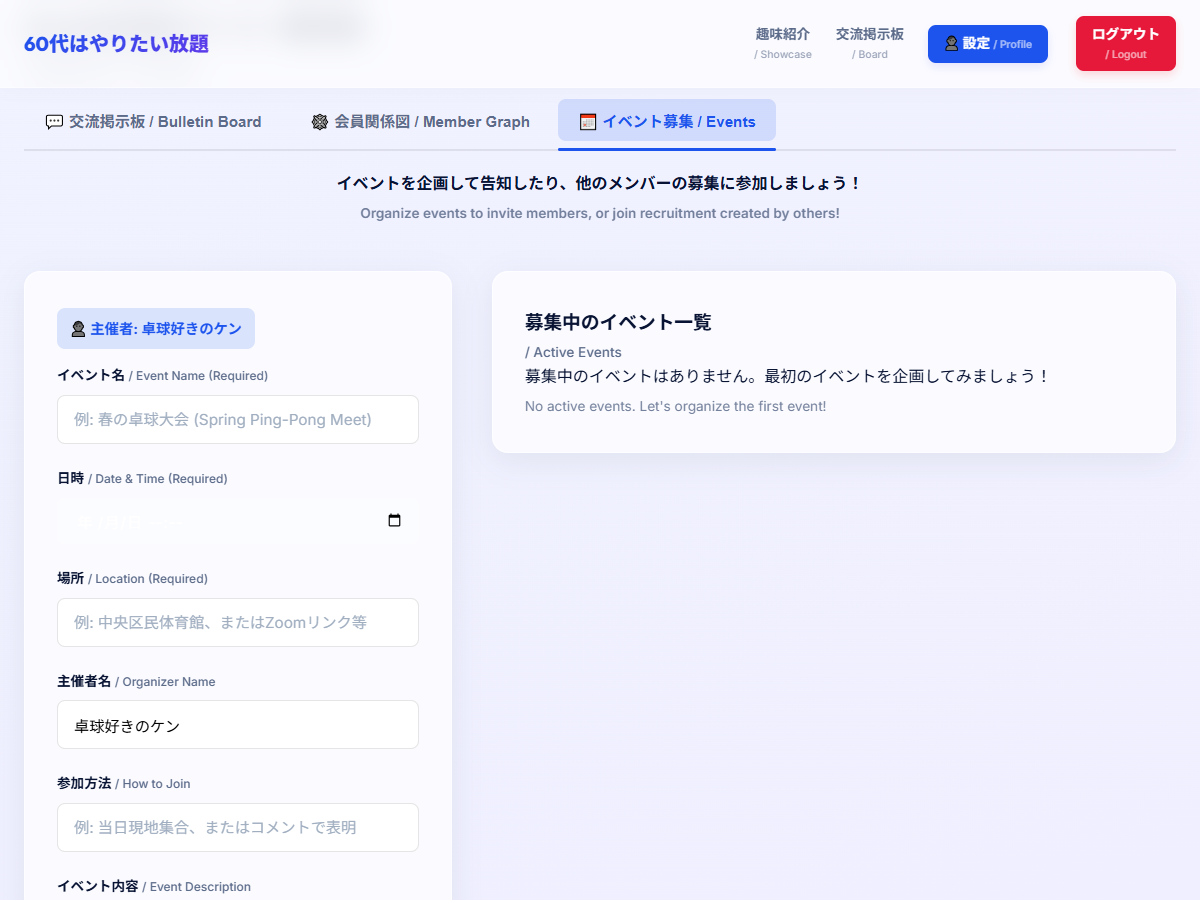
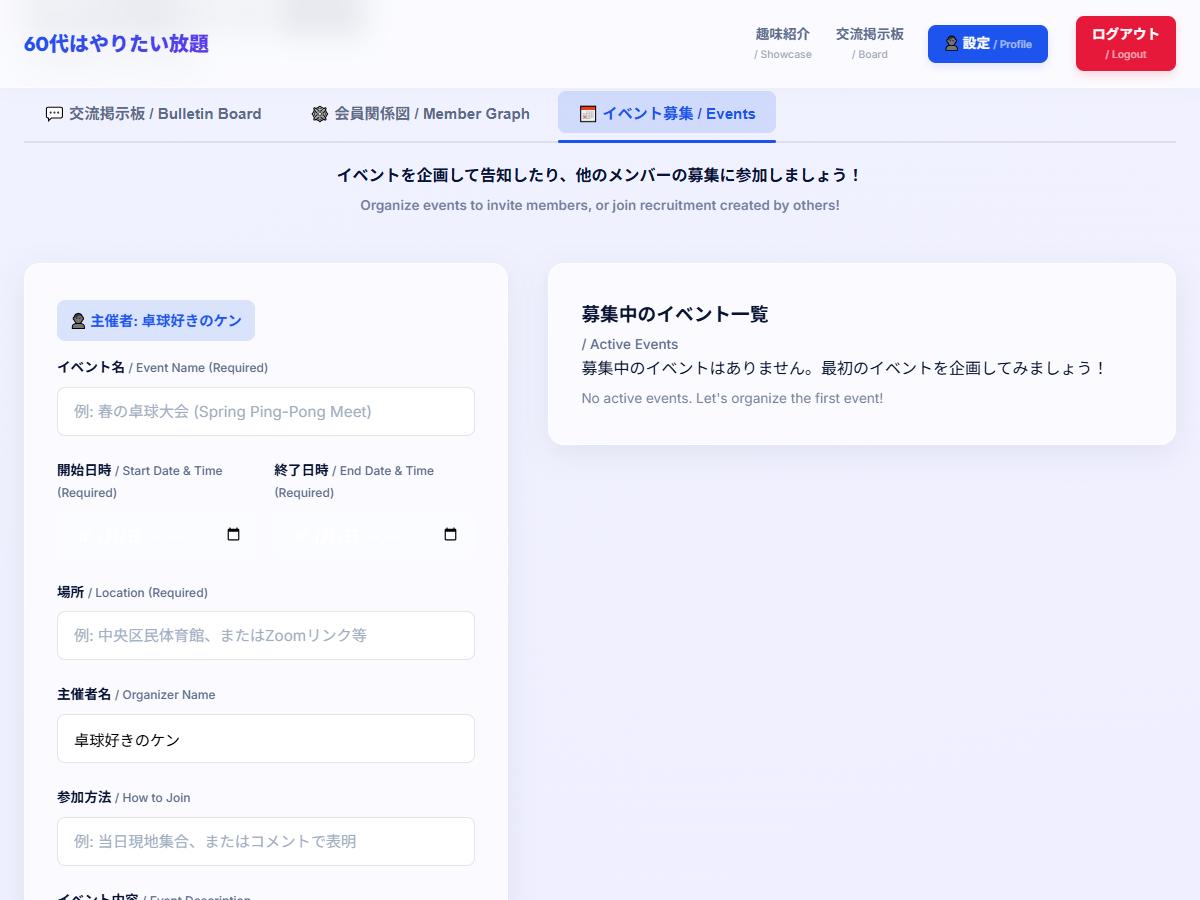
Split event start and end date/time fields, add UX linking and date validation, and update E2E tests

diff --git a/index.html b/index.html
@@ -317,9 +317,15 @@
                     <input type="text" id="eventName" required placeholder="例: 春の卓球大会 (Spring Ping-Pong Meet)">
                   </div>
                   
-                  <div class="form-group">
-                    <label for="eventDateTime">日時 <span class="en-label">/ Date & Time (Required)</span></label>
-                    <input type="datetime-local" id="eventDateTime" required style="background: var(--white); color: var(--text-dark); border: 1px solid var(--border); padding: 10px 14px; border-radius: var(--border-radius-sm); font-size: 0.95rem; width: 100%; box-sizing: border-box;">
+                  <div class="form-group event-datetime-group" style="display: flex; gap: 16px;">
+                    <div style="flex: 1;">
+                      <label for="eventStartDateTime">開始日時 <span class="en-label">/ Start Date & Time (Required)</span></label>
+                      <input type="datetime-local" id="eventStartDateTime" required style="background: var(--white); color: var(--text-dark); border: 1px solid var(--border); padding: 10px 14px; border-radius: var(--border-radius-sm); font-size: 0.95rem; width: 100%; box-sizing: border-box;">
+                    </div>
+                    <div style="flex: 1;">
+                      <label for="eventEndDateTime">終了日時 <span class="en-label">/ End Date & Time (Required)</span></label>
+                      <input type="datetime-local" id="eventEndDateTime" required style="background: var(--white); color: var(--text-dark); border: 1px solid var(--border); padding: 10px 14px; border-radius: var(--border-radius-sm); font-size: 0.95rem; width: 100%; box-sizing: border-box;">
+                    </div>
                   </div>
                   
                   <div class="form-group">
@@ -2376,6 +2382,33 @@
       }
     }
 
+    // 開始日時が変更された際に終了日時を自動設定（1時間後）し、min属性を設定する
+    const startInput = document.getElementById("eventStartDateTime");
+    const endInput = document.getElementById("eventEndDateTime");
+    if (startInput && endInput) {
+      startInput.addEventListener("change", function() {
+        const startVal = this.value;
+        if (startVal) {
+          endInput.min = startVal;
+          
+          // 終了日時が未入力、または開始日時より前の場合は、1時間後に設定
+          const startDate = new Date(startVal);
+          const endDate = new Date(startDate.getTime() + 60 * 60 * 1000);
+          
+          const year = endDate.getFullYear();
+          const month = String(endDate.getMonth() + 1).padStart(2, '0');
+          const day = String(endDate.getDate()).padStart(2, '0');
+          const hours = String(endDate.getHours()).padStart(2, '0');
+          const minutes = String(endDate.getMinutes()).padStart(2, '0');
+          const endVal = `${year}-${month}-${day}T${hours}:${minutes}`;
+          
+          if (!endInput.value || new Date(endInput.value) <= startDate) {
+            endInput.value = endVal;
+          }
+        }
+      });
+    }
+
     // イベント作成処理
     document.getElementById("eventForm").addEventListener("submit", async function(e) {
       e.preventDefault();
@@ -2386,7 +2419,8 @@
       }
 
       const name = document.getElementById("eventName").value.trim();
-      const dateTime = document.getElementById("eventDateTime").value;
+      const startDateTime = document.getElementById("eventStartDateTime").value;
+      const endDateTime = document.getElementById("eventEndDateTime").value;
       const location = document.getElementById("eventLocation").value.trim();
       const organizer = document.getElementById("eventOrganizer").value.trim() || currentUserProfile.nickname;
       const joinMethod = document.getElementById("eventJoinMethod").value.trim();
@@ -2398,8 +2432,14 @@
       const btnText = document.getElementById("eventBtnText");
       const responseMessage = document.getElementById("eventResponseMessage");
 
-      if (!name || !dateTime || !location) {
-        showResponse(responseMessage, "イベント名、日時、場所を入力してください。", "error");
+      if (!name || !startDateTime || !endDateTime || !location) {
+        showResponse(responseMessage, "イベント名、開始日時、終了日時、場所を入力してください。", "error");
+        return;
+      }
+
+      // 逆転防止バリデーション
+      if (new Date(startDateTime) >= new Date(endDateTime)) {
+        showResponse(responseMessage, "終了日時は開始日時より後の時間を指定してください。", "error");
         return;
       }
 
@@ -2407,7 +2447,10 @@
 
       const eventData = {
         name,
-        dateTime,
+        startDateTime,
+        endDateTime,
+        // 旧フィールドとの互換性のためのフォールバック
+        dateTime: startDateTime,
         location,
         organizer,
         joinMethod,
@@ -2507,8 +2550,25 @@
 
       timeline.innerHTML = "";
       allEvents.forEach(event => {
-        const dateObj = new Date(event.dateTime);
-        const formattedDate = isNaN(dateObj) ? event.dateTime : `${dateObj.getFullYear()}/${String(dateObj.getMonth()+1).padStart(2, '0')}/${String(dateObj.getDate()).padStart(2, '0')} ${String(dateObj.getHours()).padStart(2, '0')}:${String(dateObj.getMinutes()).padStart(2, '0')}`;
+        const startDateObj = new Date(event.startDateTime || event.dateTime);
+        const endDateObj = event.endDateTime ? new Date(event.endDateTime) : null;
+        
+        let formattedDate = "";
+        if (!isNaN(startDateObj)) {
+          const startStr = `${startDateObj.getFullYear()}/${String(startDateObj.getMonth()+1).padStart(2, '0')}/${String(startDateObj.getDate()).padStart(2, '0')} ${String(startDateObj.getHours()).padStart(2, '0')}:${String(startDateObj.getMinutes()).padStart(2, '0')}`;
+          
+          if (endDateObj && !isNaN(endDateObj)) {
+            const isSameDay = startDateObj.toDateString() === endDateObj.toDateString();
+            const endStr = isSameDay 
+              ? `${String(endDateObj.getHours()).padStart(2, '0')}:${String(endDateObj.getMinutes()).padStart(2, '0')}`
+              : `${endDateObj.getFullYear()}/${String(endDateObj.getMonth()+1).padStart(2, '0')}/${String(endDateObj.getDate()).padStart(2, '0')} ${String(endDateObj.getHours()).padStart(2, '0')}:${String(endDateObj.getMinutes()).padStart(2, '0')}`;
+            formattedDate = `${startStr} 〜 ${endStr}`;
+          } else {
+            formattedDate = startStr;
+          }
+        } else {
+          formattedDate = event.startDateTime || event.dateTime || "";
+        }
 
         const isUserJoined = currentUserProfile && event.participants.includes(currentUserProfile.nickname);
         const joinBtnText = isUserJoined ? "参加申込済み / Joined" : "参加を申し込む / Join Event";

diff --git a/tests/e2e_test_events.js b/tests/e2e_test_events.js
@@ -88,7 +88,8 @@ async function run() {
   
   // Set datetime-local input value
   await page.evaluate(() => {
-    document.getElementById('eventDateTime').value = '2026-06-15T10:00';
+    document.getElementById('eventStartDateTime').value = '2026-06-15T10:00';
+    document.getElementById('eventEndDateTime').value = '2026-06-15T12:00';
   });
 
   await page.type('#eventLocation', '中央区スポーツセンター 卓球室');

diff --git a/docs/walkthrough.md b/docs/walkthrough.md
@@ -91,22 +91,28 @@ Puppeteer-core を利用した E2E 自動テストスクリプト（`e2e_test.js
 
 ---
 
-## イベント作成・告知機能（イベント募集）の追加
+## イベント作成・告知機能（イベント募集）の追加および日時分割拡張
 
-会員制スペース内に新しく「📅 イベント募集 / Events」タブを新設し、主催者がイベントを企画・告知できる「イベント作成機能」を追加しました。
+会員制スペース内に新しく「📅 イベント募集 / Events」タブを新設し、主催者がイベントを企画・告知できる「イベント作成機能」を追加しました。さらに、イベントの「開始日時」と「終了日時」を個別に指定できるようにアップデートしました。
 
 ### 1. 画面仕様とフォームの実装
-* **新タブ of 追加**: 「みんなの交流スペース」のタブに「📅 イベント募集 / Events」タブ（`#tabBtnEvents`）を追加し、作成フォームと募集イベント一覧タイムラインを表示させました。
+* **新タブの追加**: 「みんなの交流スペース」のタブに「📅 イベント募集 / Events」タブ（`#tabBtnEvents`）を追加し、作成フォームと募集イベント一覧タイムラインを表示させました。
 * **作成フォーム**:
   - **主催者ニックネームの自動表示**: ログインユーザーのニックネームが「主催者」バッジに自動表示され、フォーム内にもプレフィルされるようにしました（変更可能）。
-  - **入力項目**: イベント名、日時（`datetime-local`）、場所、参加方法、イベント内容、注意事項・免責事項（初期ひな型挿入、編集可能）。
+  - **入力項目**: イベント名、開始日時（`datetime-local`）、終了日時（`datetime-local`）、場所、参加方法、イベント内容、注意事項・免責事項（初期ひな型挿入、編集可能）。
+* **初期値連動とUX向上**:
+  - 開始日時が選択された際、終了日時の最小値（`min` 属性）に開始日時を自動設定。また、終了日時が空または開始日時より前の場合は自動的に「開始日時の1時間後」の値を仮入力するアシストロジックを実装しました。
+* **逆転防止バリデーション**:
+  - イベント作成フォーム送信時に、終了日時が開始日時より前の時間が選択されている場合は、「終了日時は開始日時より後の時間を指定してください。」というエラーメッセージを画面に表示し、作成を防ぐ検証ロジックを実装しました。
 * **注意事項・免責事項テンプレート**:
   - フォームの初期値として、標準的なイベント参加上の誓約事項・自己責任の原則・免責事項のひな型が自動セットされるようにしました。
 
 ### 2. タイムライン表示と参加機能
 * **イベントカード表示**:
-  - イベント名、日時（フォーマット済）、場所、参加方法、内容、そしてアコーディオン（`<details>`）で折りたたまれた「注意事項・免責事項」を表示します。
-  - 参加者リストを表示し、何名が参加しているかを一目でわかるようにしました。
+  - イベント名、場所、参加方法、内容、そしてアコーディオン（`<details>`）で折りたたまれた「注意事項・免責事項」を表示します。
+  - 日時表示は開始日時と終了日時の範囲表示（`YYYY/MM/DD HH:mm 〜 YYYY/MM/DD HH:mm`）へと拡張しました。
+  - **表示の工夫**: 開始日時と終了日時が同一日の場合は、終了日側の日付部分を省略して `2026/06/15 10:00 〜 12:00` のようにシンプルに表示し、別日の場合は `2026/06/15 10:00 〜 2026/06/16 12:00` のように日付を含めて表示します。
+  - 過去データ（旧 `dateTime` のみ）に対する表示フォールバックを実装し、互換性を維持しました。
 * **イベントへの参加表明**:
   - 「参加を申し込む / Join Event」ボタンを設置しました。
   - 主催者は作成時に自動的に参加者リストに追加されます。また、他のユーザーがログインしてクリックした場合は、ボタンが「参加申込済み / Joined」となり非活性化されます。

diff --git a/docs/task.md b/docs/task.md
@@ -1,8 +1,13 @@
-# 実装タスク一覧: イベント作成・告知機能の追加
+# 実装タスク一覧: イベント開始日時・終了日時分割およびバリデーション
 
-- [x] `task.md` の更新と管理の開始
-- [x] イベントタブボタンおよびイベント作成フォーム、一覧表示の HTML マークアップ追加 (`index.html`)
-- [x] イベントフォーム、イベントカード、免責事項アコーディオンのスタイリング追加 (`style.css`)
-- [x] タブ切替制御、標準注意事項テンプレート初期値の設定、イベント登録、参加登録、Firestore/LocalStorage リアルタイム購読の JS 実装 (`index.html`)
-- [x] 自動 E2E テストによる動作確認と検証スクリーンショットの作成
-- [x] 変更内容の GitHub へのコミット・プッシュ
+- [/] `task.md` の更新と管理の開始
+- [x] HTML マークアップ of 変更 (`index.html`：`eventDateTime` を `eventStartDateTime` と `eventEndDateTime` に分割)
+- [x] JS 初期値連動・バリデーションロジックの実装 (`index.html`)
+  - [x] 開始日時の change 時、終了日時に「開始日時の1時間後」をセット
+  - [x] 終了日時の min 属性に開始日時の値を設定
+  - [x] イベント送信時に「終了日時 ≦ 開始日時」の順序チェック、およびエラーメッセージ表示
+- [x] JS 保存データ構造の更新 (`index.html`：`startDateTime` と `endDateTime` の保存)
+- [x] JS タイムラインレンダリングの更新 (`index.html`：期間範囲表示、同一日時の省略、過去データへのフォールバック)
+- [x] E2Eテストスクリプトの修正 (`tests/e2e_test_events.js`：開始/終了日時の入力に対応)
+- [x] 自動 E2E テストによる動作確認と検証スクリーンショットの再作成
+- [/] 変更内容の GitHub へのコミット・プッシュ
